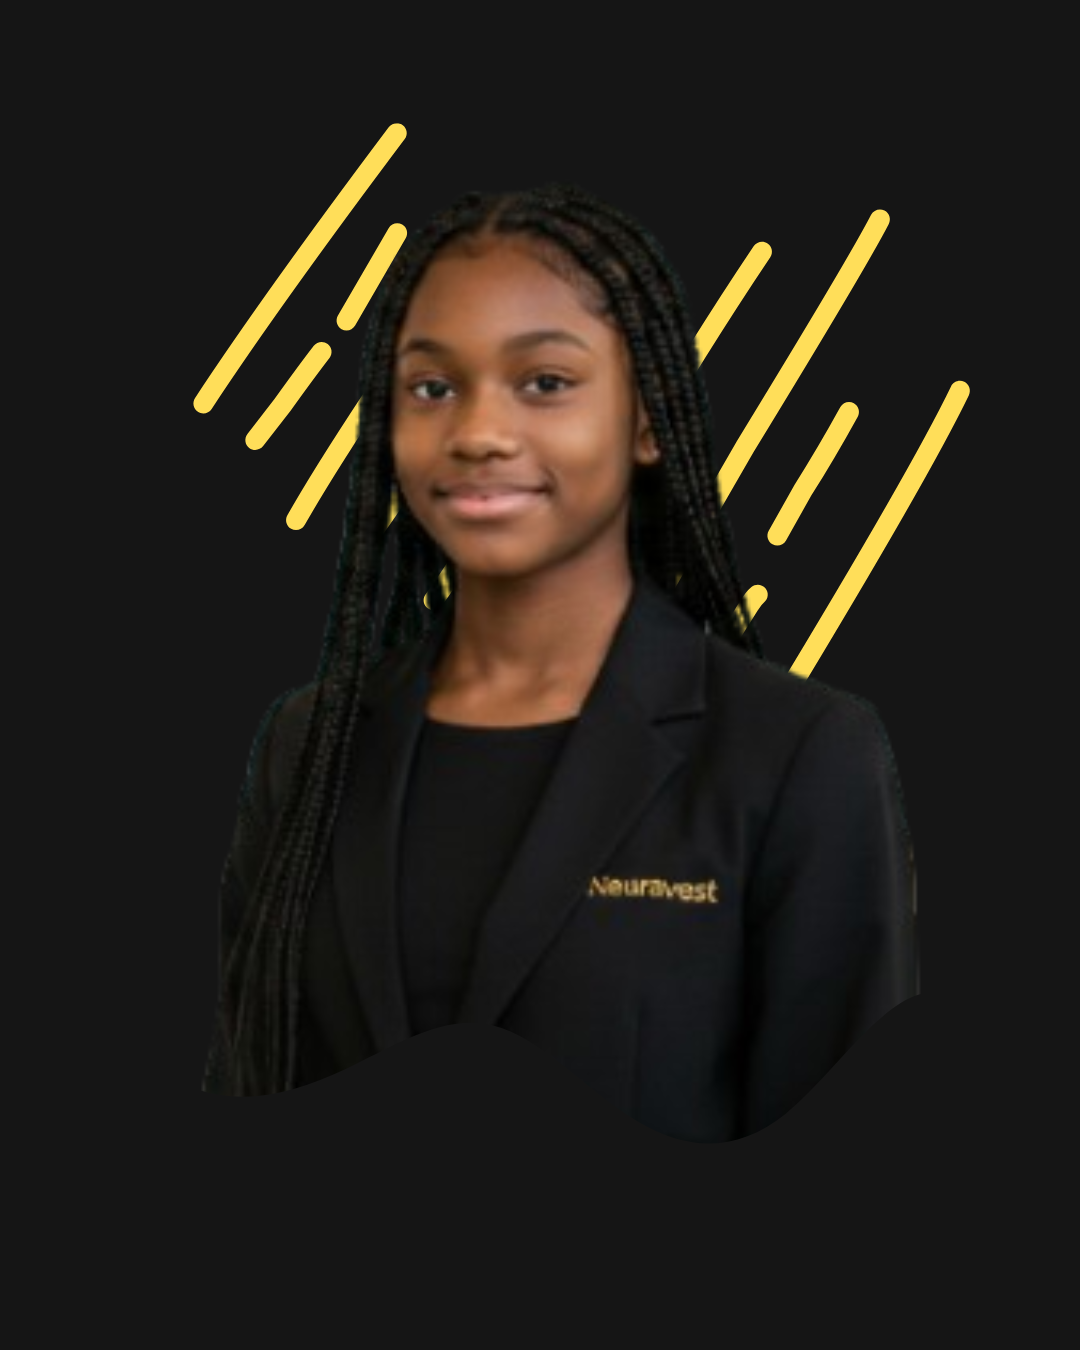
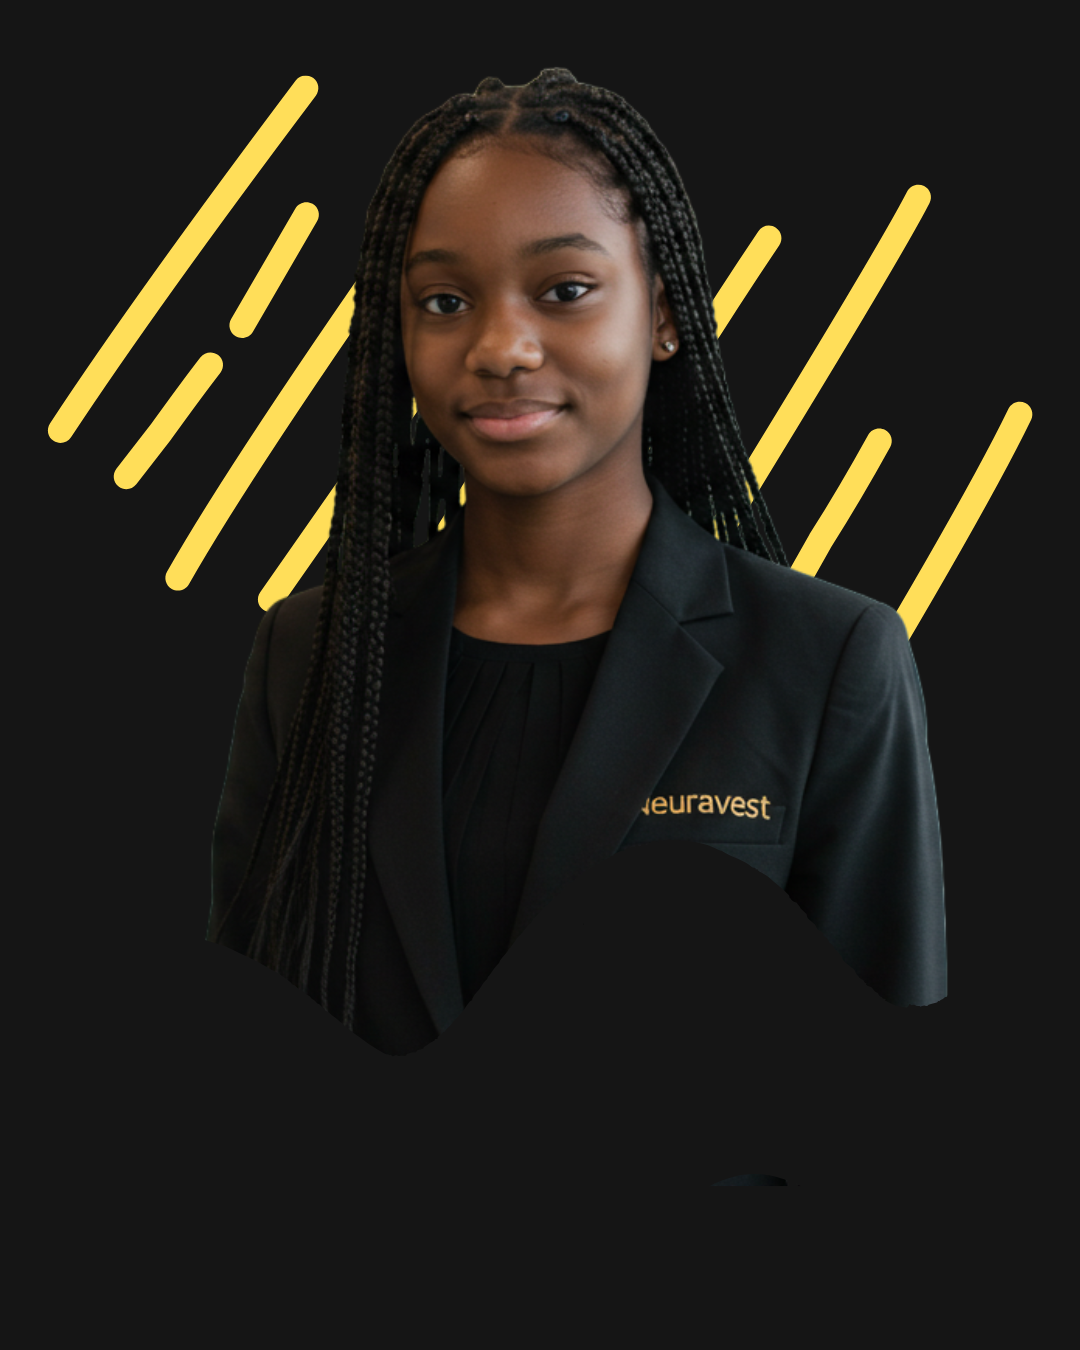
Atualização na imagem da ceo

diff --git a/index.html b/index.html
@@ -75,7 +75,7 @@
         <section class="h-max flex items-center flex-col pt-24 text-center text-white">
             <div>
                 <h1 class="font-ibm text-3xl font-extrabold"><span class="textoColorido">Neuravest.</span>: Sua <span class="textoColorido">riqueza</span> sob o poder da <span class="textoColorido animate-pulse">inteligência artificial.</span></h1>
-                <p class="font-inter font-light py-4">Com lucros de até <span class="textoBold">2% ao mês!</span> A <span class="textoColoridoBold text-shadow-2xs text-shadow-amber-300">Neuravest.</span> combina algoritmos avançados e tecnologia de ponta para identificar as melhores oportunidades e proteger o seu dinheiro. Descubra como a nossa <span class="textoBold">IA pode multiplicar o seu dinheiro de forma inteligente e segura!</span></p>
+                <p class="font-inter font-light py-4">Com lucros de até <span class="textoBold">2,14% ao mês!</span> A <span class="textoColoridoBold text-shadow-2xs text-shadow-amber-300">Neuravest.</span> combina algoritmos avançados e tecnologia de ponta para identificar as melhores oportunidades e proteger o seu dinheiro. Descubra como a nossa <span class="textoBold">IA pode multiplicar o seu dinheiro de forma inteligente e segura!</span></p>
                 <div class="py-3.5">
                     <a href="views/form.html"><button class="btn hover:scale-105 transition-transform duration-300 ease-linear">Desperte Sua Riqueza Agora com a <span class="font-bold">NeuraIA</span>  <i class="fa-solid fa-bolt text-[#151515]"></i></button></a>
                     <a href="#" class="hidden"><button class="btn btnPrimario">Saber Mais</button></a>
